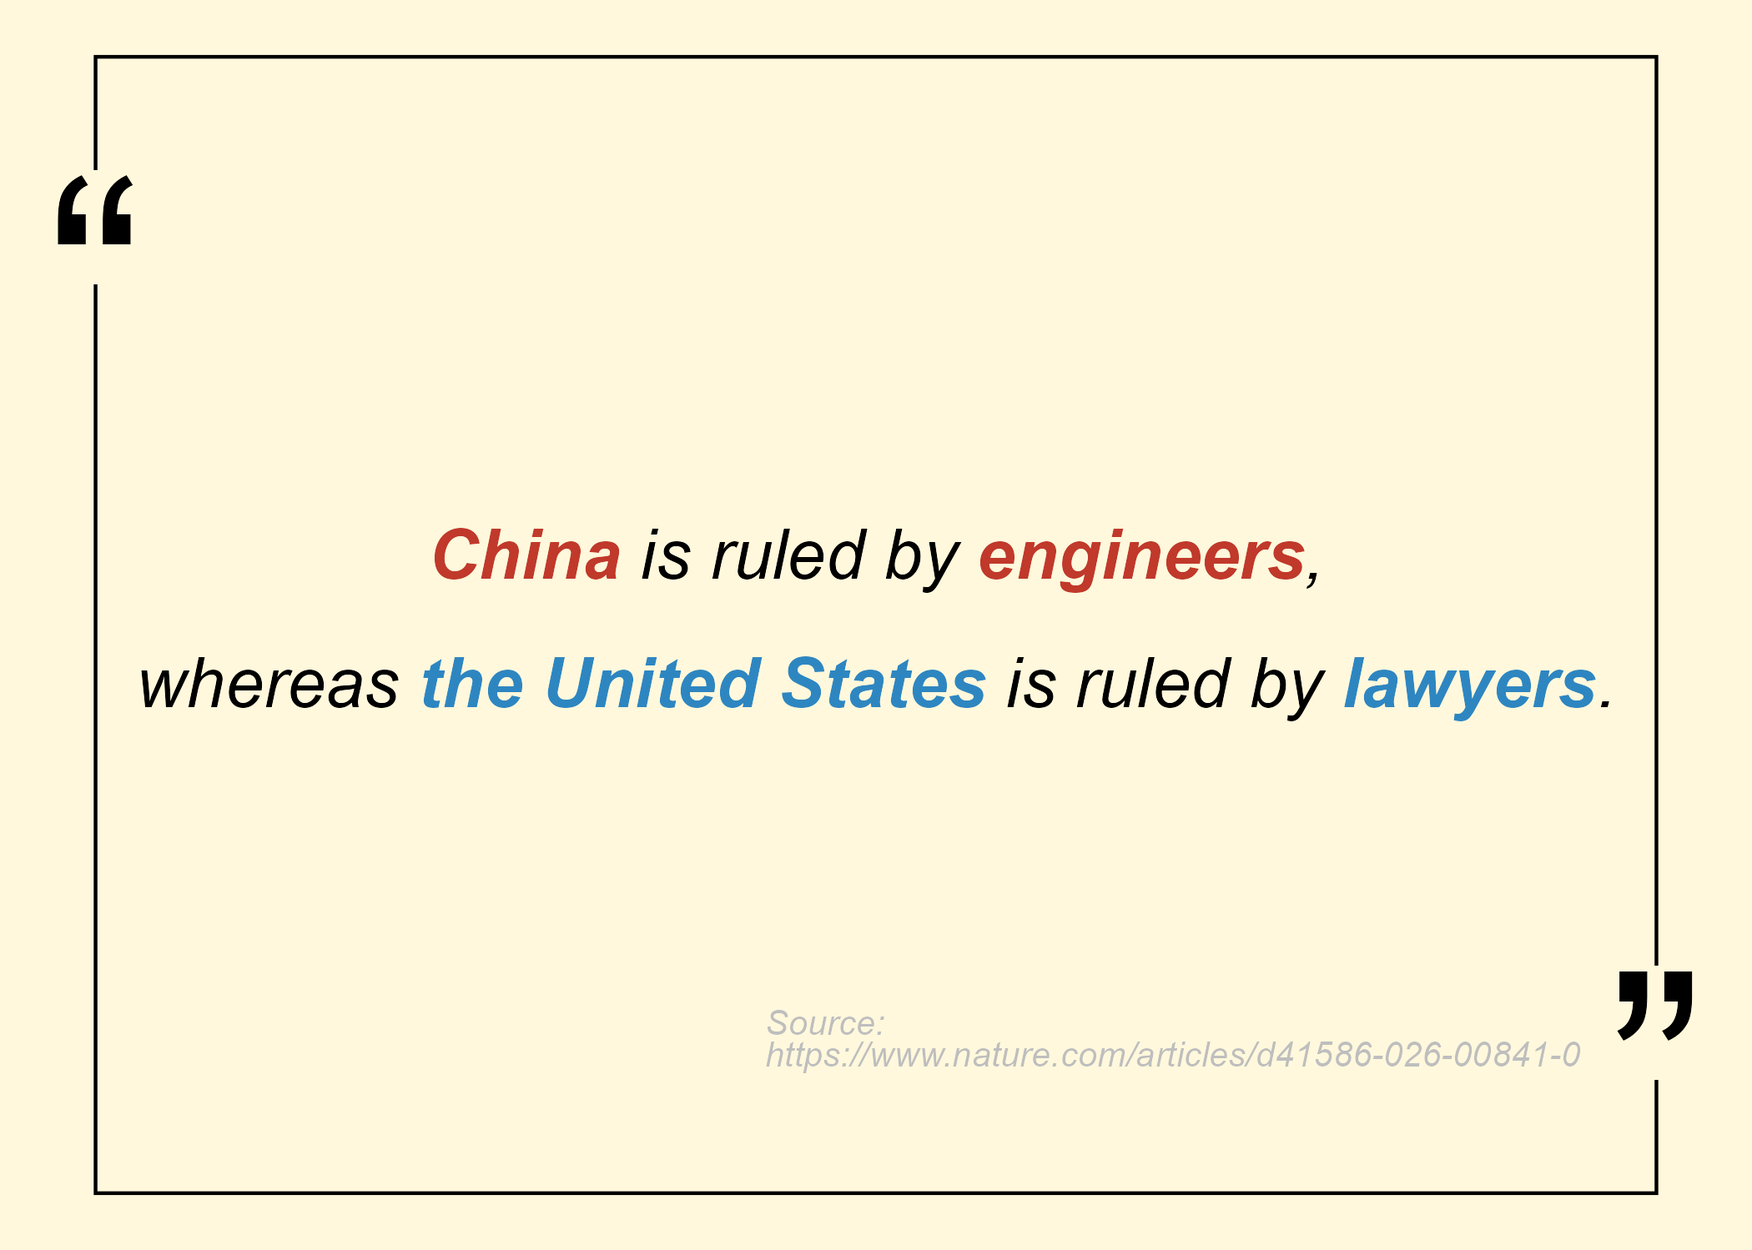
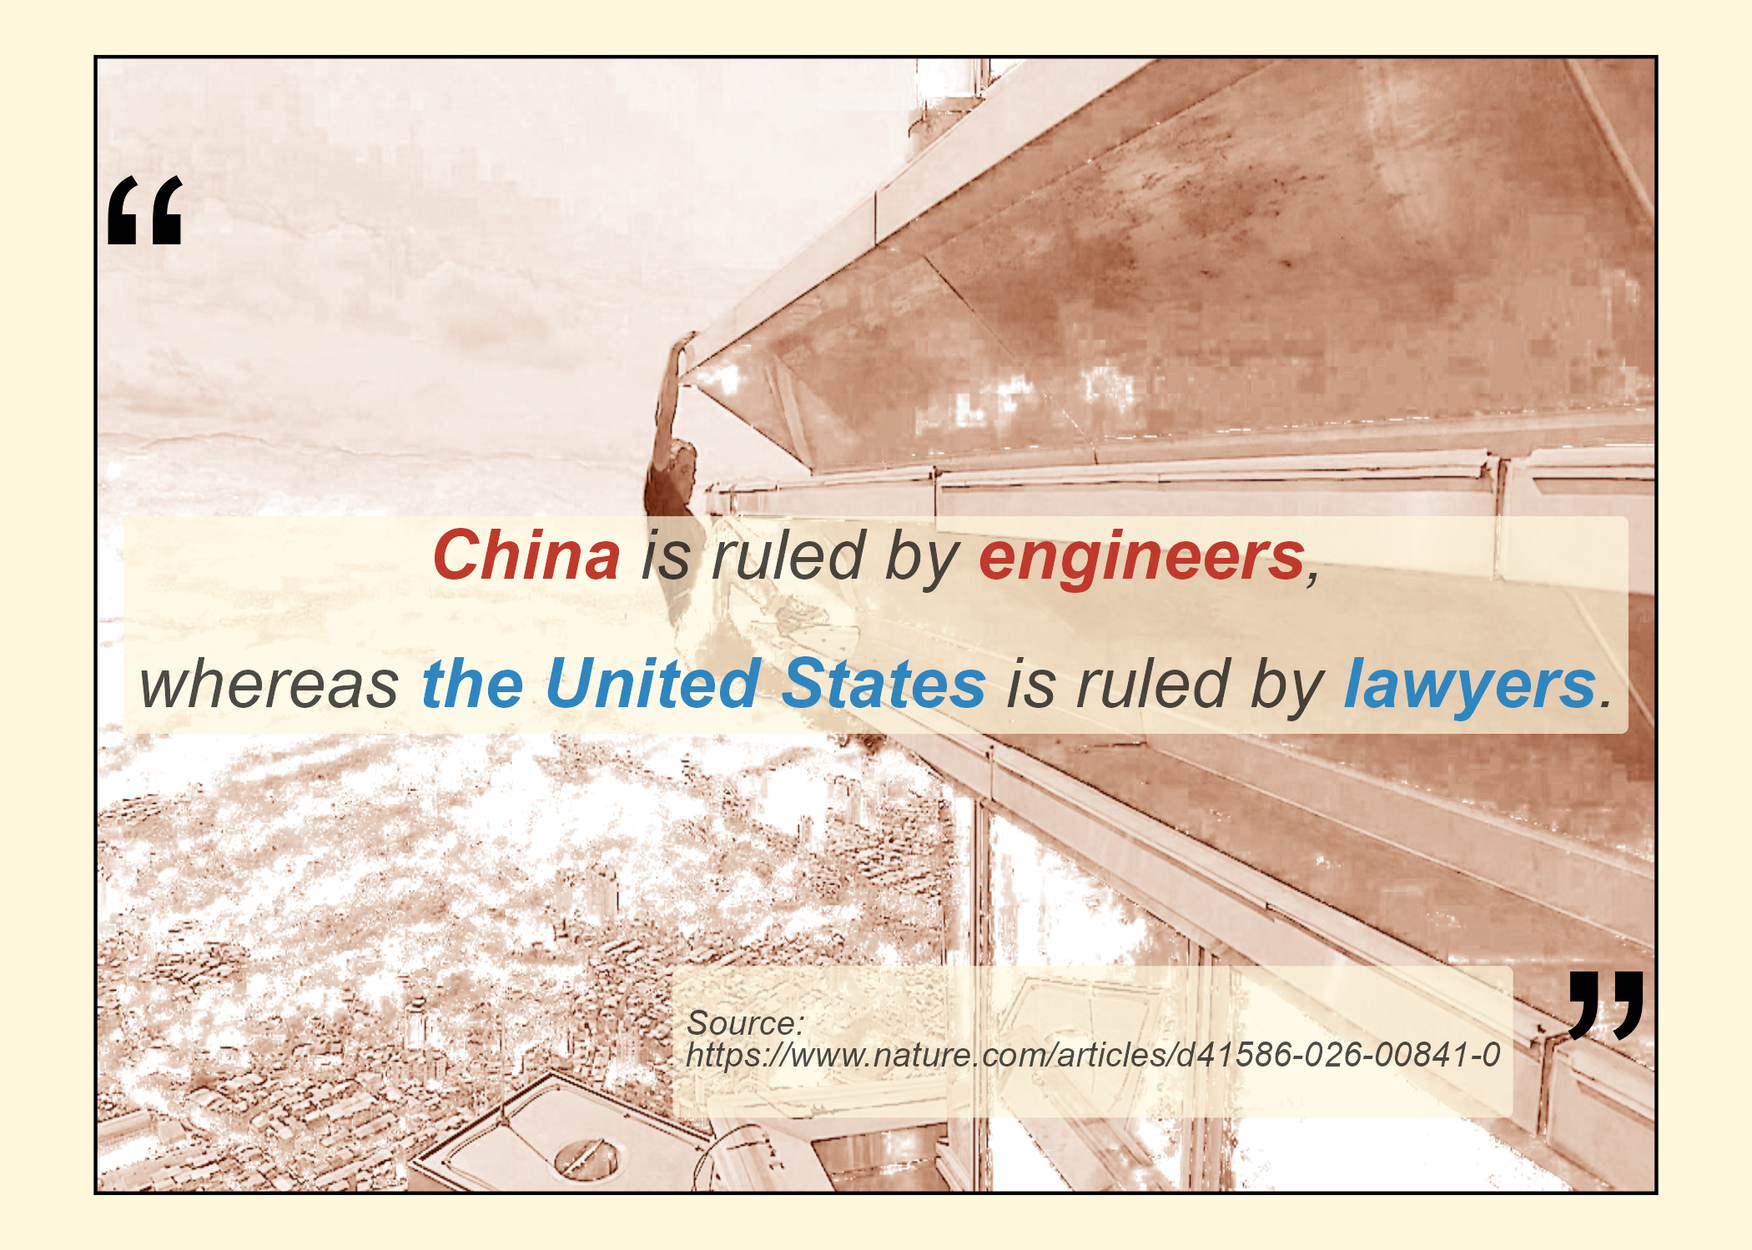
2026-03-27

diff --git a/_book/2026-03-26_quote-of-the-day.html b/_book/2026-03-26_quote-of-the-day.html
@@ -59,7 +59,26 @@ div.sourceCode
 @media screen {
 pre > code.sourceCode > span > a:first-child::before { text-decoration: underline; }
 }
-</style>
+/* CSS for citations */
+div.csl-bib-body { }
+div.csl-entry {
+  clear: both;
+}
+.hanging-indent div.csl-entry {
+  margin-left:2em;
+  text-indent:-2em;
+}
+div.csl-left-margin {
+  min-width:2em;
+  float:left;
+}
+div.csl-right-inline {
+  margin-left:2em;
+  padding-left:1em;
+}
+div.csl-indent {
+  margin-left: 2em;
+}</style>
 
 
 <script src="site_libs/quarto-nav/quarto-nav.js"></script>
@@ -442,8 +461,14 @@ pre > code.sourceCode > span > a:first-child::before { text-decoration: underlin
 </nav>
 <div id="quarto-sidebar-glass" class="quarto-sidebar-collapse-item" data-bs-toggle="collapse" data-bs-target=".quarto-sidebar-collapse-item"></div>
 <!-- margin-sidebar -->
-    <div id="quarto-margin-sidebar" class="sidebar margin-sidebar zindex-bottom">
-        
+    <div id="quarto-margin-sidebar" class="sidebar margin-sidebar">
+        <nav id="TOC" role="doc-toc" class="toc-active" data-toc-expanded="99">
+    <h2 id="toc-title">Table of contents</h2>
+   
+  <ul>
+  <li><a href="#references" id="toc-references" class="nav-link active" data-scroll-target="#references">References</a></li>
+  </ul>
+</nav>
     </div>
 <!-- main -->
 <main class="content" id="quarto-document-content">
@@ -479,47 +504,75 @@ pre > code.sourceCode > span > a:first-child::before { text-decoration: underlin
 <div class="code-copy-outer-scaffold"><div class="sourceCode cell-code" id="cb1"><pre class="sourceCode r code-overflow-scroll code-with-copy"><code class="sourceCode r"><span id="cb1-1"><a href="#cb1-1" aria-hidden="true" tabindex="-1"></a><span class="st">"ggplot2"</span> <span class="sc">|&gt;</span> <span class="fu">library</span>()</span>
 <span id="cb1-2"><a href="#cb1-2" aria-hidden="true" tabindex="-1"></a><span class="st">"ggtext"</span> <span class="sc">|&gt;</span> <span class="fu">library</span>()</span>
 <span id="cb1-3"><a href="#cb1-3" aria-hidden="true" tabindex="-1"></a><span class="st">"tibble"</span> <span class="sc">|&gt;</span> <span class="fu">library</span>()</span>
-<span id="cb1-4"><a href="#cb1-4" aria-hidden="true" tabindex="-1"></a></span>
-<span id="cb1-5"><a href="#cb1-5" aria-hidden="true" tabindex="-1"></a>df <span class="ot">&lt;-</span> <span class="fu">tibble</span>(</span>
-<span id="cb1-6"><a href="#cb1-6" aria-hidden="true" tabindex="-1"></a>    <span class="at">label =</span> <span class="fu">c</span>(</span>
-<span id="cb1-7"><a href="#cb1-7" aria-hidden="true" tabindex="-1"></a>        <span class="st">"&lt;span style='font-size: 20pt;'&gt;&lt;i&gt;&lt;b&gt;&lt;span style='color: #C0392B;'&gt;China&lt;/span&gt;&lt;/b&gt; is ruled by &lt;b&gt;&lt;span style='color: #C0392B;'&gt;engineers&lt;/span&gt;&lt;/b&gt;,&lt;br&gt;&lt;br&gt;whereas &lt;b&gt;&lt;span style='color: #2E86C1;'&gt;the United States&lt;/span&gt;&lt;/b&gt; is ruled by &lt;b&gt;&lt;span style='color: #2E86C1;'&gt;lawyers&lt;/span&gt;&lt;/b&gt;.&lt;/i&gt;&lt;/span&gt;"</span>,</span>
-<span id="cb1-8"><a href="#cb1-8" aria-hidden="true" tabindex="-1"></a></span>
-<span id="cb1-9"><a href="#cb1-9" aria-hidden="true" tabindex="-1"></a>        <span class="st">"&lt;span style='font-size: 10pt;'&gt;</span></span>
-<span id="cb1-10"><a href="#cb1-10" aria-hidden="true" tabindex="-1"></a><span class="st">            &lt;i&gt;Source: https://www.nature.com/articles/d41586-026-00841-0&lt;/i&gt;</span></span>
-<span id="cb1-11"><a href="#cb1-11" aria-hidden="true" tabindex="-1"></a><span class="st">        &lt;/span&gt;"</span></span>
-<span id="cb1-12"><a href="#cb1-12" aria-hidden="true" tabindex="-1"></a>    ),</span>
-<span id="cb1-13"><a href="#cb1-13" aria-hidden="true" tabindex="-1"></a>    <span class="at">x =</span> <span class="fu">c</span>(.<span class="dv">5</span>, .<span class="dv">95</span>),</span>
-<span id="cb1-14"><a href="#cb1-14" aria-hidden="true" tabindex="-1"></a>    <span class="at">y =</span> <span class="fu">c</span>(.<span class="dv">5</span>, .<span class="dv">2</span>),</span>
-<span id="cb1-15"><a href="#cb1-15" aria-hidden="true" tabindex="-1"></a>    <span class="at">hjust =</span> <span class="fu">c</span>(<span class="fl">0.5</span>, <span class="dv">1</span>),</span>
-<span id="cb1-16"><a href="#cb1-16" aria-hidden="true" tabindex="-1"></a>    <span class="at">vjust =</span> <span class="fu">c</span>(<span class="fl">0.5</span>, <span class="dv">1</span>),</span>
-<span id="cb1-17"><a href="#cb1-17" aria-hidden="true" tabindex="-1"></a>    <span class="at">color =</span> <span class="fu">c</span>(<span class="st">"black"</span>, <span class="st">"gray"</span>)</span>
-<span id="cb1-18"><a href="#cb1-18" aria-hidden="true" tabindex="-1"></a>)</span>
-<span id="cb1-19"><a href="#cb1-19" aria-hidden="true" tabindex="-1"></a></span>
-<span id="cb1-20"><a href="#cb1-20" aria-hidden="true" tabindex="-1"></a>df <span class="sc">|&gt;</span> <span class="fu">ggplot</span>() <span class="sc">+</span></span>
-<span id="cb1-21"><a href="#cb1-21" aria-hidden="true" tabindex="-1"></a>    <span class="fu">aes</span>(</span>
-<span id="cb1-22"><a href="#cb1-22" aria-hidden="true" tabindex="-1"></a>        x, y, <span class="at">label =</span> label, <span class="at">hjust =</span> hjust, <span class="at">vjust =</span> vjust, <span class="at">color =</span> color</span>
-<span id="cb1-23"><a href="#cb1-23" aria-hidden="true" tabindex="-1"></a>    ) <span class="sc">+</span></span>
-<span id="cb1-24"><a href="#cb1-24" aria-hidden="true" tabindex="-1"></a>    <span class="fu">scale_color_identity</span>() <span class="sc">+</span></span>
-<span id="cb1-25"><a href="#cb1-25" aria-hidden="true" tabindex="-1"></a>    <span class="fu">geom_richtext</span>(<span class="at">fill =</span> <span class="cn">NA</span>, <span class="at">label.color =</span> <span class="cn">NA</span>) <span class="sc">+</span></span>
-<span id="cb1-26"><a href="#cb1-26" aria-hidden="true" tabindex="-1"></a>    <span class="fu">xlim</span>(<span class="dv">0</span>, <span class="dv">1</span>) <span class="sc">+</span> <span class="fu">ylim</span>(<span class="dv">0</span>, <span class="dv">1</span>) <span class="sc">+</span></span>
-<span id="cb1-27"><a href="#cb1-27" aria-hidden="true" tabindex="-1"></a>    <span class="fu">annotate</span>(<span class="st">"rect"</span>, <span class="at">xmin =</span> <span class="fl">0.01</span>, <span class="at">xmax =</span> <span class="fl">0.99</span>, <span class="at">ymin =</span> <span class="dv">0</span>, <span class="at">ymax =</span> <span class="dv">1</span>, <span class="at">fill =</span> <span class="cn">NA</span>, <span class="at">color =</span> <span class="st">"black"</span>) <span class="sc">+</span></span>
-<span id="cb1-28"><a href="#cb1-28" aria-hidden="true" tabindex="-1"></a>    <span class="fu">annotate</span>(<span class="st">"rect"</span>, <span class="at">xmin =</span> <span class="dv">0</span>, <span class="at">xmax =</span> <span class="fl">0.02</span>, <span class="at">ymin =</span> <span class="fl">0.8</span>, <span class="at">ymax =</span> <span class="fl">0.9</span>, <span class="at">fill =</span> <span class="st">"cornsilk"</span>) <span class="sc">+</span></span>
-<span id="cb1-29"><a href="#cb1-29" aria-hidden="true" tabindex="-1"></a>    <span class="fu">annotate</span>(<span class="st">"text"</span>, <span class="at">x =</span> <span class="fl">0.01</span>, <span class="at">y =</span> <span class="fl">0.8</span>, <span class="at">label =</span> <span class="st">"“"</span>, <span class="at">hjust =</span> <span class="fl">0.5</span>, <span class="at">vjust =</span> <span class="fl">0.5</span>, <span class="at">size =</span> <span class="dv">30</span>) <span class="sc">+</span></span>
-<span id="cb1-30"><a href="#cb1-30" aria-hidden="true" tabindex="-1"></a>    <span class="fu">annotate</span>(<span class="st">"rect"</span>, <span class="at">xmin =</span> <span class="fl">0.98</span>, <span class="at">xmax =</span> <span class="dv">1</span>, <span class="at">ymin =</span> <span class="fl">0.1</span>, <span class="at">ymax =</span> <span class="fl">0.2</span>, <span class="at">fill =</span> <span class="st">"cornsilk"</span>) <span class="sc">+</span></span>
-<span id="cb1-31"><a href="#cb1-31" aria-hidden="true" tabindex="-1"></a>    <span class="fu">annotate</span>(<span class="st">"text"</span>, <span class="at">x =</span> <span class="fl">0.99</span>, <span class="at">y =</span> <span class="fl">0.1</span>, <span class="at">label =</span> <span class="st">"”"</span>, <span class="at">hjust =</span> <span class="fl">0.5</span>, <span class="at">vjust =</span> <span class="fl">0.5</span>, <span class="at">size =</span> <span class="dv">30</span>) <span class="sc">+</span></span>
-<span id="cb1-32"><a href="#cb1-32" aria-hidden="true" tabindex="-1"></a>    <span class="fu">theme_void</span>() <span class="sc">+</span></span>
-<span id="cb1-33"><a href="#cb1-33" aria-hidden="true" tabindex="-1"></a>    <span class="fu">theme</span>(</span>
-<span id="cb1-34"><a href="#cb1-34" aria-hidden="true" tabindex="-1"></a>        <span class="at">plot.background =</span> <span class="fu">element_rect</span>(<span class="at">fill =</span> <span class="st">"cornsilk"</span>),</span>
-<span id="cb1-35"><a href="#cb1-35" aria-hidden="true" tabindex="-1"></a>        <span class="at">panel.background =</span> <span class="fu">element_rect</span>(<span class="at">fill =</span> <span class="st">"cornsilk"</span>)</span>
-<span id="cb1-36"><a href="#cb1-36" aria-hidden="true" tabindex="-1"></a>    )</span>
-<span id="cb1-37"><a href="#cb1-37" aria-hidden="true" tabindex="-1"></a></span>
-<span id="cb1-38"><a href="#cb1-38" aria-hidden="true" tabindex="-1"></a><span class="st">"images/2026-03-26_quote-of-the-day.png"</span> <span class="sc">|&gt;</span> <span class="fu">ggsave</span>()</span></code></pre></div><button title="Copy to Clipboard" class="code-copy-button"><i class="bi"></i></button></div>
+<span id="cb1-4"><a href="#cb1-4" aria-hidden="true" tabindex="-1"></a><span class="st">"magick"</span> <span class="sc">|&gt;</span> <span class="fu">library</span>()</span>
+<span id="cb1-5"><a href="#cb1-5" aria-hidden="true" tabindex="-1"></a><span class="st">"grid"</span> <span class="sc">|&gt;</span> <span class="fu">library</span>()</span>
+<span id="cb1-6"><a href="#cb1-6" aria-hidden="true" tabindex="-1"></a></span>
+<span id="cb1-7"><a href="#cb1-7" aria-hidden="true" tabindex="-1"></a>df <span class="ot">&lt;-</span> <span class="fu">tibble</span>(</span>
+<span id="cb1-8"><a href="#cb1-8" aria-hidden="true" tabindex="-1"></a>    <span class="at">label =</span> <span class="fu">c</span>(</span>
+<span id="cb1-9"><a href="#cb1-9" aria-hidden="true" tabindex="-1"></a>        <span class="st">"&lt;span style='font-size: 20pt;'&gt;&lt;i&gt;&lt;b&gt;&lt;span style='color: #C0392B;'&gt;China&lt;/span&gt;&lt;/b&gt; is ruled by &lt;b&gt;&lt;span style='color: #C0392B;'&gt;engineers&lt;/span&gt;&lt;/b&gt;,&lt;br&gt;&lt;br&gt;whereas &lt;b&gt;&lt;span style='color: #2E86C1;'&gt;the United States&lt;/span&gt;&lt;/b&gt; is ruled by &lt;b&gt;&lt;span style='color: #2E86C1;'&gt;lawyers&lt;/span&gt;&lt;/b&gt;.&lt;/i&gt;&lt;/span&gt;"</span>,</span>
+<span id="cb1-10"><a href="#cb1-10" aria-hidden="true" tabindex="-1"></a></span>
+<span id="cb1-11"><a href="#cb1-11" aria-hidden="true" tabindex="-1"></a>        <span class="st">"&lt;span style='font-size: 10pt;'&gt;</span></span>
+<span id="cb1-12"><a href="#cb1-12" aria-hidden="true" tabindex="-1"></a><span class="st">            &lt;i&gt;Source: https://www.nature.com/articles/d41586-026-00841-0&lt;/i&gt;</span></span>
+<span id="cb1-13"><a href="#cb1-13" aria-hidden="true" tabindex="-1"></a><span class="st">        &lt;/span&gt;"</span></span>
+<span id="cb1-14"><a href="#cb1-14" aria-hidden="true" tabindex="-1"></a>    ),</span>
+<span id="cb1-15"><a href="#cb1-15" aria-hidden="true" tabindex="-1"></a>    <span class="at">x =</span> <span class="fu">c</span>(.<span class="dv">5</span>, .<span class="dv">9</span>),</span>
+<span id="cb1-16"><a href="#cb1-16" aria-hidden="true" tabindex="-1"></a>    <span class="at">y =</span> <span class="fu">c</span>(.<span class="dv">5</span>, .<span class="dv">2</span>),</span>
+<span id="cb1-17"><a href="#cb1-17" aria-hidden="true" tabindex="-1"></a>    <span class="at">hjust =</span> <span class="fu">c</span>(<span class="fl">0.5</span>, <span class="dv">1</span>),</span>
+<span id="cb1-18"><a href="#cb1-18" aria-hidden="true" tabindex="-1"></a>    <span class="at">vjust =</span> <span class="fu">c</span>(<span class="fl">0.5</span>, <span class="dv">1</span>),</span>
+<span id="cb1-19"><a href="#cb1-19" aria-hidden="true" tabindex="-1"></a>    <span class="at">color =</span> <span class="fu">c</span>(<span class="st">"black"</span>, <span class="st">"black"</span>)</span>
+<span id="cb1-20"><a href="#cb1-20" aria-hidden="true" tabindex="-1"></a>)</span>
+<span id="cb1-21"><a href="#cb1-21" aria-hidden="true" tabindex="-1"></a></span>
+<span id="cb1-22"><a href="#cb1-22" aria-hidden="true" tabindex="-1"></a><span class="co"># Read the image</span></span>
+<span id="cb1-23"><a href="#cb1-23" aria-hidden="true" tabindex="-1"></a>alex <span class="ot">&lt;-</span> <span class="st">"images/56_Alex_Honold_dab.png"</span> <span class="sc">|&gt;</span> </span>
+<span id="cb1-24"><a href="#cb1-24" aria-hidden="true" tabindex="-1"></a>    magick<span class="sc">::</span><span class="fu">image_read</span>()</span>
+<span id="cb1-25"><a href="#cb1-25" aria-hidden="true" tabindex="-1"></a></span>
+<span id="cb1-26"><a href="#cb1-26" aria-hidden="true" tabindex="-1"></a>alex_grob <span class="ot">&lt;-</span> alex <span class="sc">|&gt;</span> </span>
+<span id="cb1-27"><a href="#cb1-27" aria-hidden="true" tabindex="-1"></a>    grid<span class="sc">::</span><span class="fu">rasterGrob</span>(<span class="at">width =</span> <span class="fu">unit</span>(<span class="dv">1</span>, <span class="st">"npc"</span>), <span class="at">height =</span> <span class="fu">unit</span>(<span class="dv">1</span>, <span class="st">"npc"</span>)) <span class="co"># Convert the image to a grob object</span></span>
+<span id="cb1-28"><a href="#cb1-28" aria-hidden="true" tabindex="-1"></a></span>
+<span id="cb1-29"><a href="#cb1-29" aria-hidden="true" tabindex="-1"></a>df <span class="sc">|&gt;</span> <span class="fu">ggplot</span>() <span class="sc">+</span></span>
+<span id="cb1-30"><a href="#cb1-30" aria-hidden="true" tabindex="-1"></a>    <span class="fu">aes</span>(</span>
+<span id="cb1-31"><a href="#cb1-31" aria-hidden="true" tabindex="-1"></a>        x, y, <span class="at">label =</span> label, <span class="at">hjust =</span> hjust, <span class="at">vjust =</span> vjust, <span class="at">color =</span> color</span>
+<span id="cb1-32"><a href="#cb1-32" aria-hidden="true" tabindex="-1"></a>    ) <span class="sc">+</span></span>
+<span id="cb1-33"><a href="#cb1-33" aria-hidden="true" tabindex="-1"></a>    <span class="fu">scale_color_identity</span>() <span class="sc">+</span></span>
+<span id="cb1-34"><a href="#cb1-34" aria-hidden="true" tabindex="-1"></a>    <span class="fu">annotation_custom</span>(alex_grob, <span class="at">xmin =</span> <span class="fl">0.01</span>, <span class="at">xmax =</span> <span class="fl">0.99</span>, <span class="at">ymin =</span> <span class="dv">0</span>, <span class="at">ymax =</span> <span class="dv">1</span>) <span class="sc">+</span></span>
+<span id="cb1-35"><a href="#cb1-35" aria-hidden="true" tabindex="-1"></a>    <span class="fu">geom_richtext</span>(<span class="at">fill =</span> <span class="st">"cornsilk"</span>, <span class="at">label.color =</span> <span class="cn">NA</span>, <span class="at">alpha =</span> <span class="fl">0.7</span>) <span class="sc">+</span></span>
+<span id="cb1-36"><a href="#cb1-36" aria-hidden="true" tabindex="-1"></a>    <span class="fu">xlim</span>(<span class="dv">0</span>, <span class="dv">1</span>) <span class="sc">+</span> <span class="fu">ylim</span>(<span class="dv">0</span>, <span class="dv">1</span>) <span class="sc">+</span></span>
+<span id="cb1-37"><a href="#cb1-37" aria-hidden="true" tabindex="-1"></a>    <span class="fu">annotate</span>(<span class="st">"rect"</span>, <span class="at">xmin =</span> <span class="fl">0.01</span>, <span class="at">xmax =</span> <span class="fl">0.99</span>, <span class="at">ymin =</span> <span class="dv">0</span>, <span class="at">ymax =</span> <span class="dv">1</span>, <span class="at">fill =</span> <span class="cn">NA</span>, <span class="at">color =</span> <span class="st">"black"</span>) <span class="sc">+</span></span>
+<span id="cb1-38"><a href="#cb1-38" aria-hidden="true" tabindex="-1"></a>    <span class="fu">annotate</span>(<span class="st">"text"</span>, <span class="at">x =</span> <span class="fl">0.01</span>, <span class="at">y =</span> <span class="fl">0.8</span>, <span class="at">label =</span> <span class="st">"“"</span>, <span class="at">hjust =</span> <span class="dv">0</span>, <span class="at">vjust =</span> <span class="fl">0.5</span>, <span class="at">size =</span> <span class="dv">30</span>) <span class="sc">+</span></span>
+<span id="cb1-39"><a href="#cb1-39" aria-hidden="true" tabindex="-1"></a>    <span class="fu">annotate</span>(<span class="st">"text"</span>, <span class="at">x =</span> <span class="fl">0.99</span>, <span class="at">y =</span> <span class="fl">0.1</span>, <span class="at">label =</span> <span class="st">"”"</span>, <span class="at">hjust =</span> <span class="dv">1</span>, <span class="at">vjust =</span> <span class="fl">0.5</span>, <span class="at">size =</span> <span class="dv">30</span>) <span class="sc">+</span></span>
+<span id="cb1-40"><a href="#cb1-40" aria-hidden="true" tabindex="-1"></a>    <span class="fu">theme_void</span>() <span class="sc">+</span></span>
+<span id="cb1-41"><a href="#cb1-41" aria-hidden="true" tabindex="-1"></a>    <span class="fu">theme</span>(</span>
+<span id="cb1-42"><a href="#cb1-42" aria-hidden="true" tabindex="-1"></a>        <span class="at">plot.background =</span> <span class="fu">element_rect</span>(<span class="at">fill =</span> <span class="st">"cornsilk"</span>)</span>
+<span id="cb1-43"><a href="#cb1-43" aria-hidden="true" tabindex="-1"></a>    )</span>
+<span id="cb1-44"><a href="#cb1-44" aria-hidden="true" tabindex="-1"></a></span>
+<span id="cb1-45"><a href="#cb1-45" aria-hidden="true" tabindex="-1"></a><span class="st">"images/2026-03-26_quote-of-the-day.png"</span> <span class="sc">|&gt;</span> <span class="fu">ggsave</span>()</span></code></pre></div><button title="Copy to Clipboard" class="code-copy-button"><i class="bi"></i></button></div>
 </div>
 <center>
-<img src="images/2026-03-26_quote-of-the-day.png" class="img-fluid">
+<img src="images/2026-03-26_quote-of-the-day.png" class="img-fluid" style="width: 100%; border-radius: 6px;">
 </center>
+<div class="callout callout-style-default callout-note callout-titled">
+<div class="callout-header d-flex align-content-center">
+<div class="callout-icon-container">
+<i class="callout-icon"></i>
+</div>
+<div class="callout-title-container flex-fill">
+Note
+</div>
+</div>
+<div class="callout-body-container callout-body">
+<p>背景图片来自<a href="https://www.netflix.com/tudum/articles/how-to-watch-alex-honnold-skyscraper-climb-live-netflix" class="uri">https://www.netflix.com/tudum/articles/how-to-watch-alex-honnold-skyscraper-climb-live-netflix</a>，并通过QuPath进行了color deconvolution <span class="citation" data-cites="iAmHealthy_alex">(<a href="#ref-iAmHealthy_alex" role="doc-biblioref"><em>1</em></a>)</span>。</p>
+</div>
+</div>
+<section id="references" class="level2">
+<h2 class="anchored" data-anchor-id="references">References</h2>
 
 
+<div id="refs" class="references csl-bib-body" role="list">
+<div id="ref-iAmHealthy_alex" class="csl-entry" role="listitem">
+<div class="csl-left-margin">1. </div><div class="csl-right-inline"><span class="nocase">iAmHealthy</span>, Alex Honnold徒手无保护攀爬台北101 (2026). <a href="https://bioinfo-scitech-image-more1.netlify.app/2026-02-03_keep-climbing">https://bioinfo-scitech-image-more1.netlify.app/2026-02-03_keep-climbing</a>.</div>
+</div>
+</div>
+</section>
 
 </main> <!-- /main -->
 <script id="quarto-html-after-body" type="application/javascript">

diff --git a/_book/index.html b/_book/index.html
@@ -7,7 +7,7 @@
 <meta name="viewport" content="width=device-width, initial-scale=1.0, user-scalable=yes">
 
 <meta name="author" content="iAmHealthy">
-<meta name="dcterms.date" content="2026-03-26">
+<meta name="dcterms.date" content="2026-03-27">
 
 <title>【生物】信息、科技、和图像分析（2）</title>
 <style>
@@ -440,7 +440,7 @@ ul.task-list li input[type="checkbox"] {
     <div>
     <div class="quarto-title-meta-heading">Published</div>
     <div class="quarto-title-meta-contents">
-      <p class="date">March 26, 2026</p>
+      <p class="date">March 27, 2026</p>
     </div>
   </div>
   
